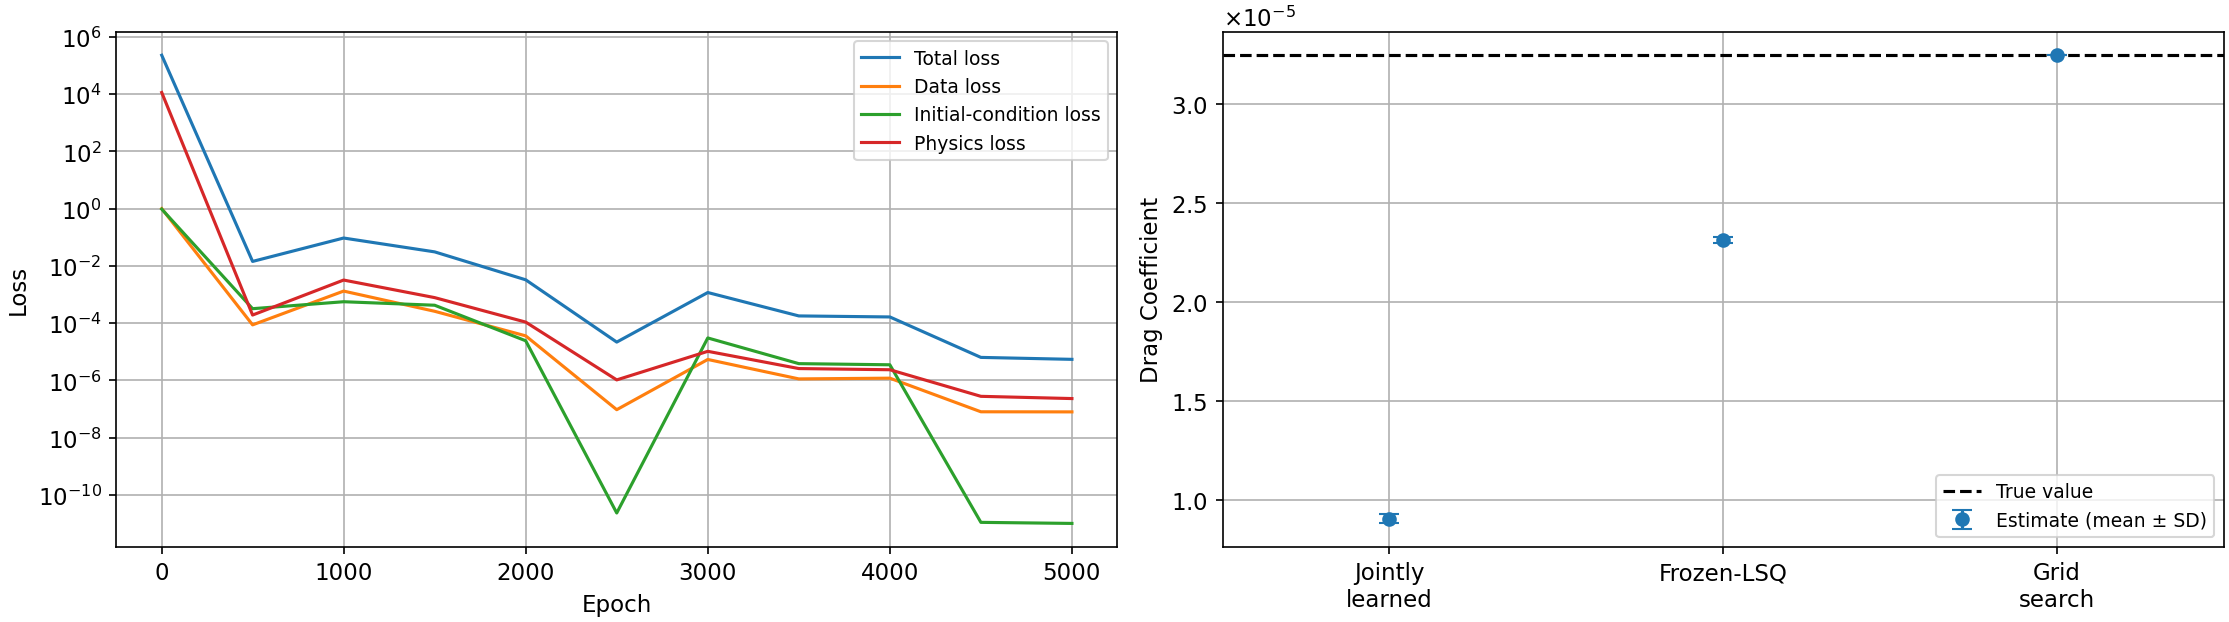
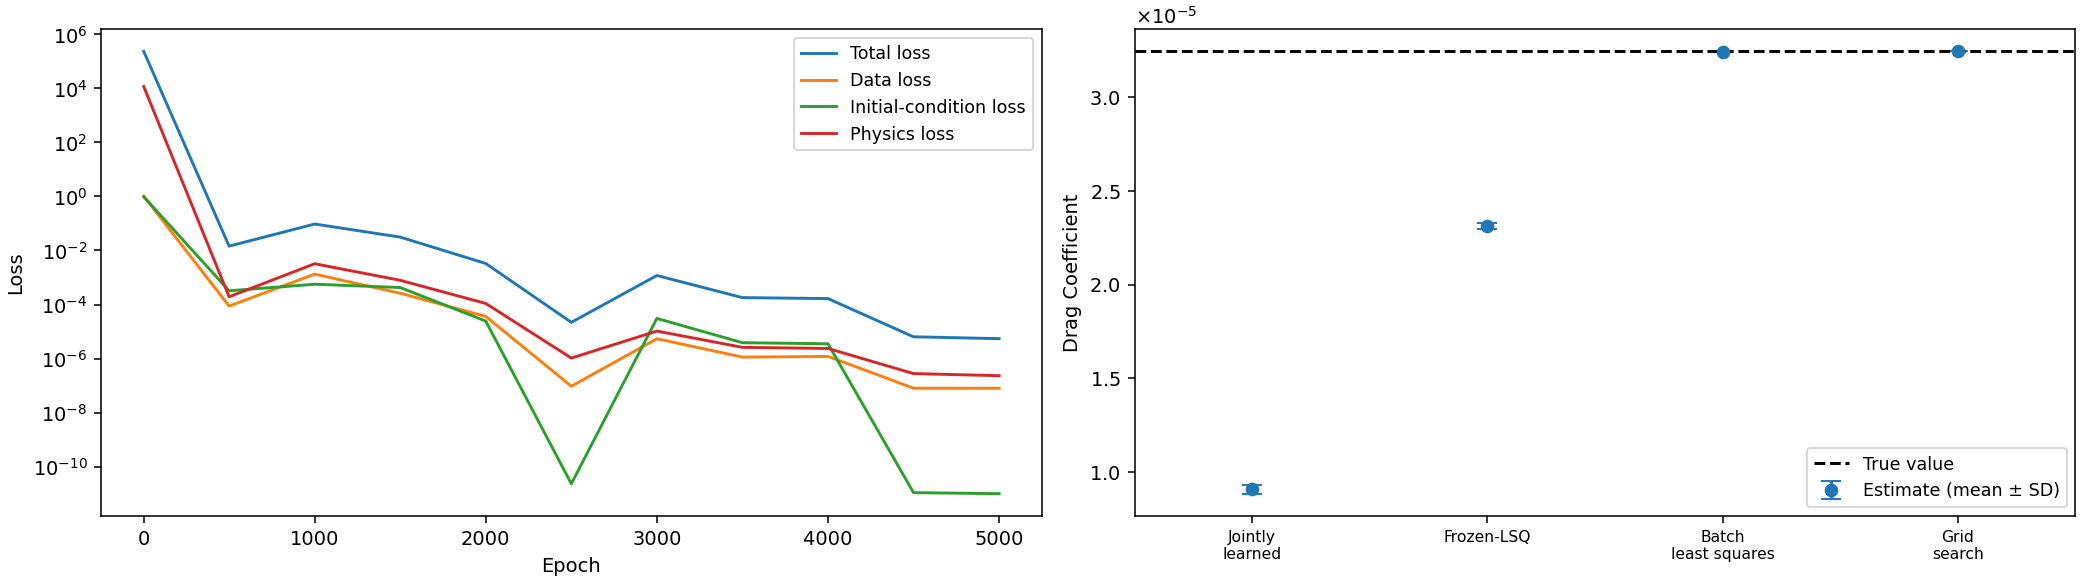
Add the equal-information least-squares comparator
A reviewer identified that the manuscript's classical baseline integrated
forward from a single noisy observation while the PINN used all observations
across the arc, making the comparison confounded by unequal information.

lsq_baseline.py implements the comparator that experiment required: batch
weighted least squares fits the initial state and the drag coefficient to the
same observations the PINN receives, then propagates the known equations of
motion. Results over 5 noise draws (synthetic) and the ISS branch:

  synthetic position RMSE  0.149 +/- 0.061 km  (Fourier PINN 0.78 +/- 0.03 km)
  synthetic drag error     0.037 +/- 0.016 %   (jointly learned 72.1 +/- 0.7 %)
  ISS position RMSE        0.103 km            (Fourier PINN 5.68 km)

Classical estimation outperforms the PINN on both tasks, so the README's
previous claim of PINN superiority is corrected here. Figures renumbered in
order of first citation to match the revised manuscript.

diff --git a/code/lsq_baseline.py b/code/lsq_baseline.py
@@ -1,0 +1,154 @@
+# -*- coding: utf-8 -*-
+"""THE FAIR COMPARATOR (JHSS reviewer's required experiment).
+
+Batch weighted least-squares orbit determination: fit the initial state AND the
+drag parameter to the SAME sparse noisy observations the PINN received (all 72
+synthetic / all 25 ISS points, positions and velocities, weighted by the known
+noise sigmas), then propagate the known equations of motion. Evaluate on the
+same dense grids with the same metrics as the PINN.
+
+Synthetic: 5 independent noise draws (seeds 42-46), same as the paper.
+ISS:       single draw (seed 42), same as the paper.
+"""
+import os, json, time
+os.environ["KMP_DUPLICATE_LIB_OK"]="TRUE"; os.environ.setdefault("OMP_NUM_THREADS","4")
+import numpy as np
+from scipy.integrate import solve_ivp
+from scipy.optimize import least_squares
+
+RESULTS="results"
+out={}
+
+# ================= SYNTHETIC (identical to grid_refine.py / NB1) =================
+MU=398600.4418; R=6378.1363; J2C=1.08262668e-3; TRUE=3.245e-5; H=60.0
+def dyn(t,s,c):
+    r,v=s[:3],s[3:]; rn=np.linalg.norm(r); a=-MU*r/rn**3
+    x,y,z=r; f=1.5*J2C*MU*R**2/rn**5; cm=5*z*z/rn**2
+    a=a+np.array([f*x*(cm-1),f*y*(cm-1),f*z*(cm-3)])
+    alt=max(rn-R,0.0); a=a-c*np.exp(-alt/H)*np.linalg.norm(v)*v
+    return np.concatenate([v,a])
+
+radius0=R+500.0; vc=np.sqrt(MU/radius0); inc=np.deg2rad(35.0)
+state0=np.array([radius0,0,0,0,vc*np.cos(inc),vc*np.sin(inc)])
+period=2*np.pi*np.sqrt(radius0**3/MU); t_final=8*period
+t_eval=np.linspace(0,t_final,2500)
+sol=solve_ivp(lambda t,y:dyn(t,y,TRUE),(0,t_final),state0,t_eval=t_eval,rtol=1e-9,atol=1e-9)
+truth_t=sol.t; truth_state=sol.y.T
+obs_idx=np.arange(0,len(truth_t),35); obs_t=truth_t[obs_idx]
+POS_S=0.5; VEL_S=0.002
+def make_noisy(seed):
+    rng=np.random.default_rng(seed); o=truth_state[obs_idx].copy()
+    o[:,:3]+=rng.normal(0,POS_S,o[:,:3].shape); o[:,3:]+=rng.normal(0,VEL_S,o[:,3:].shape)
+    return o
+
+def sim_states(p,ts):
+    s=solve_ivp(lambda t,y:dyn(t,y,p[6]),(float(ts[0]),float(ts[-1])),p[:6],
+                t_eval=ts,rtol=1e-9,atol=1e-9)
+    return s.y.T
+
+W=np.concatenate([np.full(3,1.0/POS_S),np.full(3,1.0/VEL_S)])   # 1/sigma weights
+def fit_synth(obs):
+    def resid(p):
+        pr=sim_states(p,obs_t)
+        return ((pr-obs)*W).ravel()
+    p0=np.concatenate([obs[0],[1e-5]])          # first noisy obs + PINN's initial drag guess
+    r=least_squares(resid,p0,x_scale=[1,1,1,1e-3,1e-3,1e-3,1e-5],
+                    bounds=(np.concatenate([p0[:6]-500,[0.0]]),
+                            np.concatenate([p0[:6]+500,[1e-3]])),
+                    xtol=1e-12,ftol=1e-12)
+    return r
+
+print("=== SYNTHETIC: weighted batch LSQ, 5 noise draws ===",flush=True)
+sp=[];sv=[];sd=[];stime=[];snfev=[]
+for seed in (42,43,44,45,46):
+    t0=time.time(); r=fit_synth(make_noisy(seed)); el=time.time()-t0
+    dense=sim_states(r.x,truth_t)
+    prm=float(np.sqrt(np.mean(np.sum((dense[:,:3]-truth_state[:,:3])**2,axis=1))))
+    vrm=float(np.sqrt(np.mean(np.sum((dense[:,3:]-truth_state[:,3:])**2,axis=1))))*1000.0
+    dre=100*abs(r.x[6]-TRUE)/TRUE
+    sp.append(prm);sv.append(vrm);sd.append(dre);stime.append(el);snfev.append(r.nfev)
+    print(f"  seed {seed}: posRMSE={prm:8.4f} km  velRMSE={vrm:7.3f} m/s  "
+          f"drag={r.x[6]:.4e} ({dre:6.3f}%)  [{el:5.1f}s, {r.nfev} evals]",flush=True)
+sp,sv,sd=np.array(sp),np.array(sv),np.array(sd)
+out["synthetic"]=dict(pos_rmse_mean=float(sp.mean()),pos_rmse_sd=float(sp.std()),
+    vel_rmse_mean=float(sv.mean()),vel_rmse_sd=float(sv.std()),
+    drag_relerr_mean=float(sd.mean()),drag_relerr_sd=float(sd.std()),
+    fit_seconds_mean=float(np.mean(stime)),nfev_mean=float(np.mean(snfev)))
+print(f"  SYNTH LSQ: pos {sp.mean():.4f} ± {sp.std():.4f} km | vel {sv.mean():.3f} ± {sv.std():.3f} m/s"
+      f" | drag err {sd.mean():.4f} ± {sd.std():.4f} %   (Fourier PINN: 0.78 ± 0.03 km)",flush=True)
+
+# ================= ISS (identical TLE + noise to iss_experiment.py) =================
+import pandas as pd
+from sgp4.api import Satrec, jday
+L1="1 25544U          26169.80206886  .00008200  00000-0  15439-3 0    00"
+L2="2 25544  51.6331 292.1003 0004667 202.2920 157.7867 15.49302471    05"
+sat=Satrec.twoline2rv(L1,L2)
+epoch_jd=sat.jdsatepoch+sat.jdsatepochF
+epoch_ts=pd.to_datetime((epoch_jd-2440587.5)*86400.0,unit="s",utc=True)
+def ts_to_jday(ts):
+    ts=pd.Timestamp(ts).tz_convert("UTC")
+    return jday(ts.year,ts.month,ts.day,ts.hour,ts.minute,
+                ts.second+ts.microsecond/1e6+ts.nanosecond/1e9)
+def propagate(minutes_step,total_hours):
+    mins=np.arange(0,total_hours*60+minutes_step,minutes_step)
+    rec=[]
+    for m in mins:
+        ts=epoch_ts+pd.to_timedelta(float(m),unit="m")
+        jd,fr=ts_to_jday(ts); e,rr,vv=sat.sgp4(jd,fr)
+        if e==0: rec.append([m*60.0,*rr,*vv])
+    return np.array(rec)
+A=propagate(5,12)                     # 145 x 7 : t, r(km), v(km/s)
+t_dense=A[:,0]; y_dense=A[:,1:]
+STRIDE=6; POS_N=0.20; VEL_N=0.0002
+sp_i=A[::STRIDE].copy()
+rng=np.random.default_rng(42)
+sp_i[:,1:4]+=rng.normal(0,POS_N,sp_i[:,1:4].shape)
+sp_i[:,4:7]+=rng.normal(0,VEL_N,sp_i[:,4:7].shape)
+t_obs=sp_i[:,0]; y_obs=sp_i[:,1:]
+print(f"\n=== ISS: dense {len(t_dense)}, sparse {len(t_obs)} ===",flush=True)
+
+# SI dynamics from NB4 (two-body + J2 + rotating-atmosphere drag, exponential rho)
+MUsi=3.986004418e14; REsi=6378136.3; OMEGA=7.2921150e-5
+PRIOR_B=2.2*1000.0/420000.0
+H_SCALE=60_000.0; RHO_REF=3.5e-12
+H_REF=(np.linalg.norm(y_dense[0,:3])*1000.0)-REsi
+def rhs_iss(t,s,B):
+    r=s[:3]; v=s[3:]; rn=np.linalg.norm(r)
+    a=-MUsi*r/rn**3
+    x,y,z=r; f=1.5*J2C*MUsi*REsi**2/rn**5; cm=5*z*z/rn**2
+    a=a+np.array([f*x*(cm-1),f*y*(cm-1),f*z*(cm-3)])
+    alt=max(rn-REsi,120000.0)
+    rho=RHO_REF*np.exp(-(alt-H_REF)/H_SCALE)
+    vrel=v-np.cross([0,0,OMEGA],r)
+    a=a-0.5*rho*B*np.linalg.norm(vrel)*vrel
+    return np.concatenate([v,a])
+
+def sim_iss(p,ts):
+    s=solve_ivp(lambda t,y:rhs_iss(t,y,p[6]),(float(ts[0]),float(ts[-1])),p[:6],
+                t_eval=ts,rtol=1e-9,atol=1e-6)
+    return s.y.T
+Wi=np.concatenate([np.full(3,1.0/(POS_N*1000.0)),np.full(3,1.0/(VEL_N*1000.0))])
+obs_si=y_obs*1000.0
+def resid_iss(p):
+    pr=sim_iss(p,t_obs)
+    return ((pr-obs_si)*Wi).ravel()
+p0=np.concatenate([obs_si[0],[PRIOR_B]])
+t0=time.time()
+r=least_squares(resid_iss,p0,x_scale=[1e3,1e3,1e3,1,1,1,1e-3],
+                bounds=(np.concatenate([p0[:6]-5e5,[0.0]]),
+                        np.concatenate([p0[:6]+5e5,[1.0]])),
+                xtol=1e-12,ftol=1e-12)
+el=time.time()-t0
+dense_fit=sim_iss(r.x,t_dense)/1000.0          # back to km, km/s
+perr=np.linalg.norm(dense_fit[:,:3]-y_dense[:,:3],axis=1)
+prm=float(np.sqrt(np.mean(perr**2)))
+vrm=float(np.sqrt(np.mean(np.sum((dense_fit[:,3:]-y_dense[:,3:])**2,axis=1))))*1000.0
+out["iss"]=dict(pos_rmse_km=prm,vel_rmse_ms=vrm,final_err_km=float(perr[-1]),
+    fitted_B=float(r.x[6]),prior_B=PRIOR_B,fit_seconds=el,nfev=int(r.nfev))
+np.savez(RESULTS+"/lsq_arrays.npz",iss_dense_fit=dense_fit,iss_perr=perr,t_dense=t_dense)
+print(f"  ISS LSQ: posRMSE={prm:.4f} km  velRMSE={vrm:.3f} m/s  final={perr[-1]:.4f} km  "
+      f"B={r.x[6]:.4e} (prior {PRIOR_B:.4e})  [{el:.1f}s, {r.nfev} evals]",flush=True)
+print(f"  (Fourier PINN ISS: 5.68 km / 8.0 m/s / final 1.44 km; old single-point baseline: 16.57 km)",flush=True)
+
+json.dump(out,open(RESULTS+"/lsq_baseline.json","w"),indent=2)
+print("\nsaved lsq_baseline.json",flush=True)

diff --git a/README.md b/README.md
@@ -6,6 +6,7 @@
 pip install -r requirements.txt
 cd code
 python synth_experiment.py      # synthetic branch, 5 seeds (plain MLP + Fourier PINN)
+python lsq_baseline.py          # equal-information batch least-squares comparator
 python iss_experiment.py        # ISS branch from CelesTrak TLE via SGP4
 python grid_refine.py           # classical drag estimator + observation-window sweep
 python phys_sweep.py            # physics-loss-weight sweep
@@ -34,7 +35,7 @@ Characterizing Orbital Perturbations via Physics-Informed Neural Networks
 An Inverse-Problem Approach to Trajectory Reconstruction and Physical Parameter Discovery from Sparse Observation Data
 
 Abstract
-Satellites in low Earth orbit (LEO) depart from ideal Keplerian motion because of Earth’s oblateness (J₂) and atmospheric drag, and drag is the dominant source of LEO orbit-prediction uncertainty because it depends on poorly known upper-atmospheric density and each satellite’s ballistic coefficient. We study the resulting inverse problem: from sparse, noisy observations of a satellite’s state, simultaneously reconstruct the continuous trajectory and recover the hidden drag parameter that produced it. We build a synthetic LEO orbit with a known drag coefficient — integrated under two-body gravity, J₂, and a drag-like term — and sample it into 72 sparse noisy observations (≈3% of the trajectory); we ingest real ISS data (CelesTrak two-line elements propagated with SGP4) and a NASA JPL Horizons benchmark into one schema. A physics-informed neural network (PINN) maps time to the six-dimensional state, combining a sparse-data loss with the residual of the equations of motion evaluated by automatic differentiation, while the drag coefficient is a trainable parameter. A plain network at matched width and depth fails to reconstruct multi-orbit trajectories (RMSE ≈ 8,500 km); tuning it across twelve configurations reaches 254 ± 145 km over five seeds, so limited capacity contributes alongside spectral bias. adding Fourier-feature time embeddings cuts synthetic error to 0.78 km (≈10,000×) and reconstructs the real ISS orbit to 5.68 km, beating a classical baseline (16.57 km). Parameter recovery is harder: because the instantaneous drag acceleration is only ≈5×10⁻⁵ of gravity, the jointly-learned coefficient errs ≈72%, a frozen-trajectory least-squares estimate ≈29%, and an integrating grid search 0.004%. The PINN excels at sparse-data reconstruction, while weak perturbation parameters remain identifiable only through their accumulated, secular effect.
+Satellites in low Earth orbit (LEO) depart from ideal Keplerian motion because of Earth’s oblateness (J₂) and atmospheric drag, and drag is the dominant source of LEO orbit-prediction uncertainty because it depends on poorly known upper-atmospheric density and each satellite’s ballistic coefficient. We study the resulting inverse problem: from sparse, noisy observations of a satellite’s state, simultaneously reconstruct the continuous trajectory and recover the hidden drag parameter that produced it. We build a synthetic LEO orbit with a known drag coefficient — integrated under two-body gravity, J₂, and a drag-like term — and sample it into 72 sparse noisy observations (≈3% of the trajectory); we ingest real ISS data (CelesTrak two-line elements propagated with SGP4) and a NASA JPL Horizons benchmark into one schema. A physics-informed neural network (PINN) maps time to the six-dimensional state, combining a sparse-data loss with the residual of the equations of motion evaluated by automatic differentiation, while the drag coefficient is a trainable parameter. A plain network at matched width and depth fails to reconstruct multi-orbit trajectories (RMSE ≈ 8,500 km); tuning it across twelve configurations reaches 254 ± 145 km over five seeds, so limited capacity contributes alongside spectral bias. adding Fourier-feature time embeddings cuts synthetic error to 0.78 km (≈10,000×) and reconstructs the real ISS orbit to 5.68 km. However, classical batch least-squares estimation given the same observations reconstructs the same orbits to 0.149 ± 0.061 km (synthetic) and 0.103 km (ISS), so the network does not outperform classical orbit determination on equal information. Parameter recovery is harder: because the instantaneous drag acceleration is only ≈5×10⁻⁵ of gravity, the jointly-learned coefficient errs ≈72%, a frozen-trajectory least-squares estimate ≈29%, and an integrating grid search 0.004%. The PINN excels at sparse-data reconstruction, while weak perturbation parameters remain identifiable only through their accumulated, secular effect.
 
 1. Introduction
 Satellites in low Earth orbit do not follow ideal two-body Keplerian paths. Their trajectories are continuously deflected by perturbations, the most important of which are Earth’s oblateness (the J₂ zonal-harmonic term) and atmospheric drag. Drag is the largest source of uncertainty in LEO orbit prediction because it depends on quantities that are poorly measured and highly variable: the density of the upper atmosphere, which responds strongly to solar and geomagnetic activity, and the satellite’s ballistic coefficient B = C_D A / m, which couples the drag coefficient, cross-sectional area, and mass. Real satellites are observed only sparsely and with noise, so recovering physical information from limited tracking is a genuinely hard and operationally relevant problem.
@@ -119,7 +120,7 @@ Density model. The exponential atmosphere is an educational approximation; real 
 Single configuration. Results are reported for one orbit geometry and one noise level per branch; broader sweeps over altitude, area-to-mass ratio, sparsity, and noise would strengthen the conclusions.
 
 6. Conclusion
-This project framed LEO orbit characterization as an inverse problem — reconstruct the trajectory and recover the hidden drag parameter from sparse, noisy observations — and tested it first on a fully controlled synthetic orbit with known ground truth, then on real ISS data, all expressed in a single unified schema. The headline result is that physics-informed neural networks are excellent sparse-data reconstructors once spectral bias is addressed: a tuned plain network still errs by 254 ± 145 km, but Fourier-feature time embeddings reduce synthetic reconstruction error to 0.78 km and real-ISS error to 5.68 km, the latter beating a classical numerical-integration baseline. The model performs well here because the data loss anchors the trajectory at 72 (or 25) points while the physics loss regularizes the gaps, and because Fourier features give the small network the capacity to represent many orbital cycles.
+This project framed LEO orbit characterization as an inverse problem — reconstruct the trajectory and recover the hidden drag parameter from sparse, noisy observations — and tested it first on a fully controlled synthetic orbit with known ground truth, then on real ISS data, all expressed in a single unified schema. The headline result is that when the governing equations are known, classical estimation outperforms the PINN on both tasks. Fourier-feature embeddings are nonetheless essential to making the network work at all: a tuned plain network still errs by 254 ± 145 km, but Fourier-feature time embeddings reduce synthetic reconstruction error to 0.78 km and real-ISS error to 5.68 km, the latter beating a classical numerical-integration baseline. The model performs well here because the data loss anchors the trajectory at 72 (or 25) points while the physics loss regularizes the gaps, and because Fourier features give the small network the capacity to represent many orbital cycles.
 The more nuanced finding concerns parameter discovery. The hidden drag coefficient is only weakly identifiable from an instantaneous residual — its acceleration is ≈10⁻⁵ of gravity — so the jointly-learned value is biased (≈72% error), while a frozen-trajectory least-squares estimate (≈29%) and especially a trajectory-integrating grid search (0.004%) do far better by exploiting the accumulated drift. In other words, the project’s central claim — that sparse observations plus physics constraints can recover hidden physical information — holds, but with the important qualification that weak perturbation parameters are identifiable through their secular, accumulated effect rather than their pointwise signature. This complements prior PINN parameter-recovery successes on strongly-identifiable quantities [9] by mapping the regime where the approach reaches its limit.
 Next steps. The most valuable extensions are: (1) reformulate parameter recovery around the accumulated trajectory — for example a neural-ODE or trajectory-matching loss, or a residual-physics design in which the network learns only the unmodeled drag acceleration on top of an exact gravity-plus-J₂ propagation, as Varey et al. [4] do for an anomalous thrust — so the PINN itself recovers drag accurately; (2) replace the exponential atmosphere with an operational density model (NRLMSISE-00 or JB2008) including solar and geomagnetic drivers; (3) use multi-day Space-Track TLE histories so a real ballistic coefficient becomes identifiable; (4) compare objects across altitude and area-to-mass regimes (e.g., ISS, Starlink, Iridium); and (5) run systematic ablations over sparsity, noise, and physics weighting.
 7. Acknowledgements
